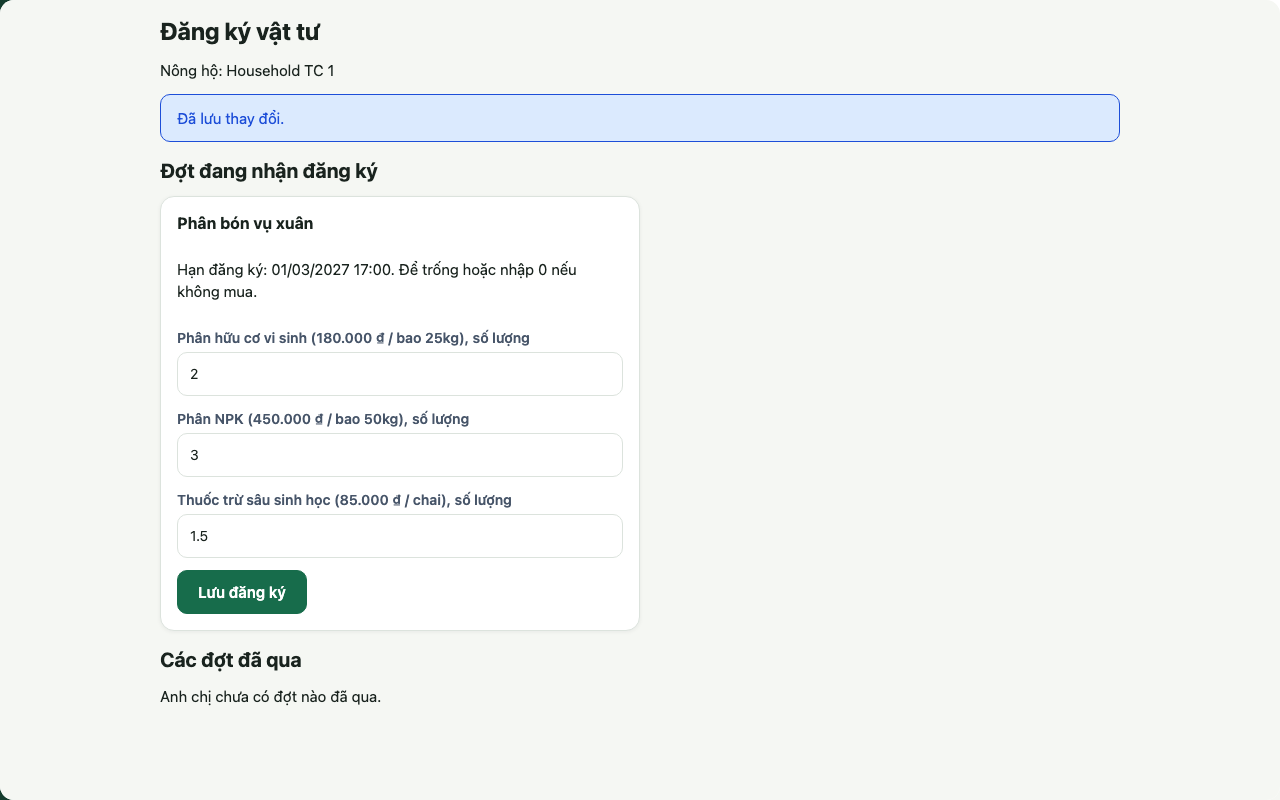
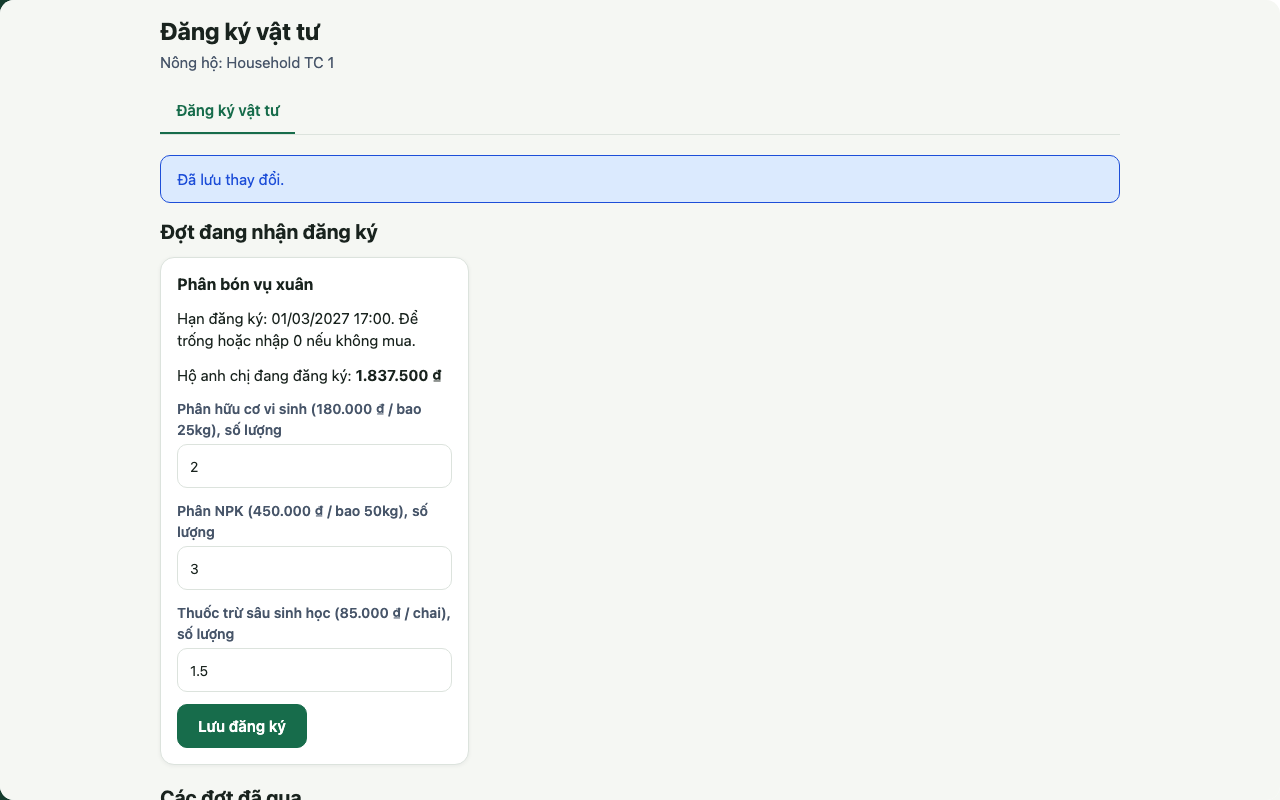
feat(miniapps): refresh store screenshots
Recaptured from the new pages with sample data made through the apps (Vietnamese
household and guest names); the tea-shop picture is now the order list. Captions updated.

Changed region(s): [[0.125, 0.0625, 0.875, 0.5625], [0.125, 0.5938, 0.4062, 0.9375], [0.125, 0.9688, 0.2188, 1.0]]

diff --git a/apps/web/tests/e2e/tools/store-screenshots.spec.ts b/apps/web/tests/e2e/tools/store-screenshots.spec.ts
@@ -58,6 +58,9 @@ test.describe('store screenshots', () => {
     const managerApp = appFrame(manager, title)
     await managerApp.getByRole('link', { name: 'Giá thu mua' }).click()
     for (const [name, price] of [['Búp tươi loại 1', '9000'], ['Búp tươi loại 2', '7500']]) {
+      // The form is open while there is no grade yet, closed after that.
+      const add = managerApp.locator('details.disclosure', { has: managerApp.locator('summary', { hasText: 'Thêm loại chè' }) })
+      if ((await add.getAttribute('open')) === null) await add.locator('summary').click()
       await managerApp.locator('input[name=name]').fill(name)
       await managerApp.locator('input[name=price_vnd]').last().fill(price)
       await managerApp.getByRole('button', { name: 'Thêm loại chè' }).click()
@@ -69,8 +72,12 @@ test.describe('store screenshots', () => {
     await menuLink(officer, title).first().click()
     await officer.waitForURL('**/officer/apps/leaf-purchase')
     const officerApp = appFrame(officer, title)
-    // [household option, grade option, kg]; option 0 is the placeholder.
-    const tickets: [number, number, string][] = [[1, 1, '14,5'], [2, 1, '9'], [4, 2, '11,5'], [1, 2, '6']]
+    // [household option, grade option, kg]; option 0 is the placeholder. The households with real-looking names come after the two demo ones.
+    await expect(officerApp.locator('select[name=household]')).toBeVisible()
+    const options = await officerApp.locator('select[name=household] option').evaluateAll(all => all.map(option => option.textContent ?? ''))
+    const named = options.flatMap((label, index) => (index > 0 && !label.startsWith('Household') ? [index] : []))
+    expect(named.length, 'households with real-looking names in the seed').toBeGreaterThan(1)
+    const tickets: [number, number, string][] = [[named[0], 1, '14,5'], [named[1], 1, '9'], [named[named.length - 1], 2, '11,5'], [named[0], 2, '6']]
     for (const [count, [household, grade, kg]] of Array.from(tickets.entries())) {
       const form = officerApp.locator('form', { has: officerApp.getByRole('button', { name: 'Ghi phiếu' }) })
       await form.locator('select[name=household]').selectOption({ index: household })
@@ -81,9 +88,12 @@ test.describe('store screenshots', () => {
       // The previous notice is still on the page until the reload, so wait for the new row instead.
       await expect(officerApp.locator('tbody tr')).toHaveCount(count + 1)
     }
+    await officer.goto('/officer/apps/leaf-purchase/tickets')
+    await expect(officerApp.locator('tbody tr')).toHaveCount(4)
     await capture(officer, 'leaf-purchase', 'officer-tickets', title)
 
     await manager.goto('/manager/apps/leaf-purchase/periods')
+    await managerApp.locator('summary', { hasText: 'Chốt kỳ mới' }).click()
     const closing = managerApp.locator('form', { has: managerApp.getByRole('button', { name: 'Chốt kỳ' }) })
     await closing.locator('input[name=date_from]').fill(daysAgo(3))
     await closing.locator('input[name=date_to]').fill(daysAgo(3))
@@ -124,7 +134,7 @@ test.describe('store screenshots', () => {
     for (const [name, phone, address, quantity] of customers) {
       await guest.goto('/apps/tea-shop/public/TC')
       const order = guest.getByRole('form', { name: 'Đặt hàng' })
-      await order.locator('section', { hasText: products[0][0] }).locator('input[name=quantity]').fill(quantity)
+      await order.locator('li.card', { hasText: products[0][0] }).locator('input[name=quantity]').fill(quantity)
       await order.locator('input[name=customer_name]').fill(name)
       await order.locator('input[name=phone]').fill(phone)
       await order.locator('input[name=address]').fill(address)
@@ -135,9 +145,9 @@ test.describe('store screenshots', () => {
     await expect(guest.getByRole('form', { name: 'Đặt hàng' })).toBeVisible()
     await capture(guest, 'tea-shop', 'public-order')
 
-    await manager.goto('/manager/apps/tea-shop')
-    await expect(managerApp.getByRole('link', { name: products[0][0] })).toBeVisible()
-    await capture(manager, 'tea-shop', 'manager-products', title)
+    await manager.goto('/manager/apps/tea-shop/orders')
+    await expect(managerApp.locator('tbody tr')).toHaveCount(customers.length)
+    await capture(manager, 'tea-shop', 'manager-orders', title)
   })
 
   test('farm-supply', async ({ browser }) => {
@@ -148,12 +158,14 @@ test.describe('store screenshots', () => {
     await menuLink(manager, title).first().click()
     await manager.waitForURL('**/manager/apps/farm-supply')
     const managerApp = appFrame(manager, title)
+    await managerApp.locator('summary', { hasText: 'Mở đợt đăng ký mới' }).click()
     await managerApp.locator('input[name=title]').fill(round)
     await managerApp.locator('input[name=deadline]').fill(`${new Date().getFullYear() + 1}-03-01T17:00`)
     await managerApp.getByRole('button', { name: 'Mở đợt' }).click()
     await expect(managerApp.locator('h1')).toContainText(round)
     const items: [string, string, string][] = [['Phân NPK', 'bao 50kg', '450000'], ['Phân hữu cơ vi sinh', 'bao 25kg', '180000'], ['Thuốc trừ sâu sinh học', 'chai', '85000']]
     for (const [name, unit, price] of items) {
+      await managerApp.locator('summary', { hasText: 'Thêm mặt hàng mới' }).click()
       const form = managerApp.locator('form', { has: managerApp.getByRole('button', { name: 'Thêm mặt hàng' }) })
       await form.locator('input[name=name]').fill(name)
       await form.locator('input[name=unit]').fill(unit)
@@ -188,28 +200,37 @@ test.describe('store screenshots', () => {
     await menuLink(manager, 'Tour đồi chè').first().click()
     await manager.waitForURL('**/manager/apps/tea-tour')
     const managerApp = appFrame(manager, 'Đặt tour đồi chè')
+    await managerApp.locator('summary', { hasText: 'Tạo tour mới' }).click()
     await managerApp.locator('input[name=title]').fill(title)
     await managerApp.locator('input[name=starts_at]').fill(`${new Date(Date.now() + 7 * 3600e3 + 4 * 86400e3).toISOString().slice(0, 10)}T07:30`)
     await managerApp.locator('input[name=meeting_point]').fill('Nhà văn hoá xóm Hồng Thái')
     await managerApp.locator('input[name=seats]').fill('12')
     await managerApp.locator('input[name=price_vnd]').fill('250000')
-    await managerApp.locator('select[name=guide]').selectOption('hh_tc_1')
+    await managerApp.locator('select[name=guide]').selectOption({ label: 'Hoàng Văn Tâm' })
     await managerApp.getByRole('button', { name: 'Tạo tour' }).click()
     await expect(managerApp.locator('h1')).toContainText(title)
 
     const guest = await newPage(browser, { viewport: { width: 390, height: 844 }, isMobile: true, hasTouch: true })
-    await guest.goto('/apps/tea-tour/public/TC')
-    const form = guest.getByRole('form', { name: `Đặt chỗ ${title}` })
-    await form.locator('input[name=guest_name]').fill('Nguyễn Văn An')
-    await form.locator('input[name=phone]').fill('0912 345 678')
-    await form.locator('input[name=party_size]').fill('3')
-    await form.getByRole('button', { name: 'Đặt chỗ' }).click()
-    await guest.waitForURL('**/apps/tea-tour/public/TC/booking?code=*')
+    const bookings: [string, string, string][] = [['Nguyễn Văn An', '0912 345 678', '3'], ['Trần Thị Mai', '0987 654 321', '2'], ['Lê Quốc Bảo', '0903 112 233', '4']]
+    for (const [name, phone, size] of bookings) {
+      await guest.goto('/apps/tea-tour/public/TC')
+      await guest.locator('li.card', { hasText: title }).locator('summary', { hasText: 'Đặt chỗ' }).click()
+      const form = guest.getByRole('form', { name: `Đặt chỗ ${title}` })
+      await form.locator('input[name=guest_name]').fill(name)
+      await form.locator('input[name=phone]').fill(phone)
+      await form.locator('input[name=party_size]').fill(size)
+      await form.getByRole('button', { name: 'Đặt chỗ' }).click()
+      await guest.waitForURL('**/apps/tea-tour/public/TC/booking?code=*')
+    }
 
     await manager.goto('/manager/apps/tea-tour')
     await managerApp.getByRole('link', { name: title }).click()
-    await managerApp.getByRole('button', { name: 'Xác nhận' }).click()
-    await expect(managerApp.locator('main')).toContainText('Đã xác nhận 3 khách')
+    // Two of the three are confirmed; the third stays pending, so the page shows both tones.
+    for (const [name] of bookings.slice(0, 2)) {
+      await managerApp.locator('tbody tr', { hasText: name }).getByRole('button', { name: 'Xác nhận' }).click()
+      await expect(managerApp.locator('tbody tr', { hasText: name })).toContainText('Đã xác nhận')
+    }
+    await expect(managerApp.locator('.stats li', { hasText: 'Khách đã xác nhận' })).toContainText('5')
     await capture(manager, 'tea-tour', 'manager-tour', 'Đặt tour đồi chè')
   })
 })
